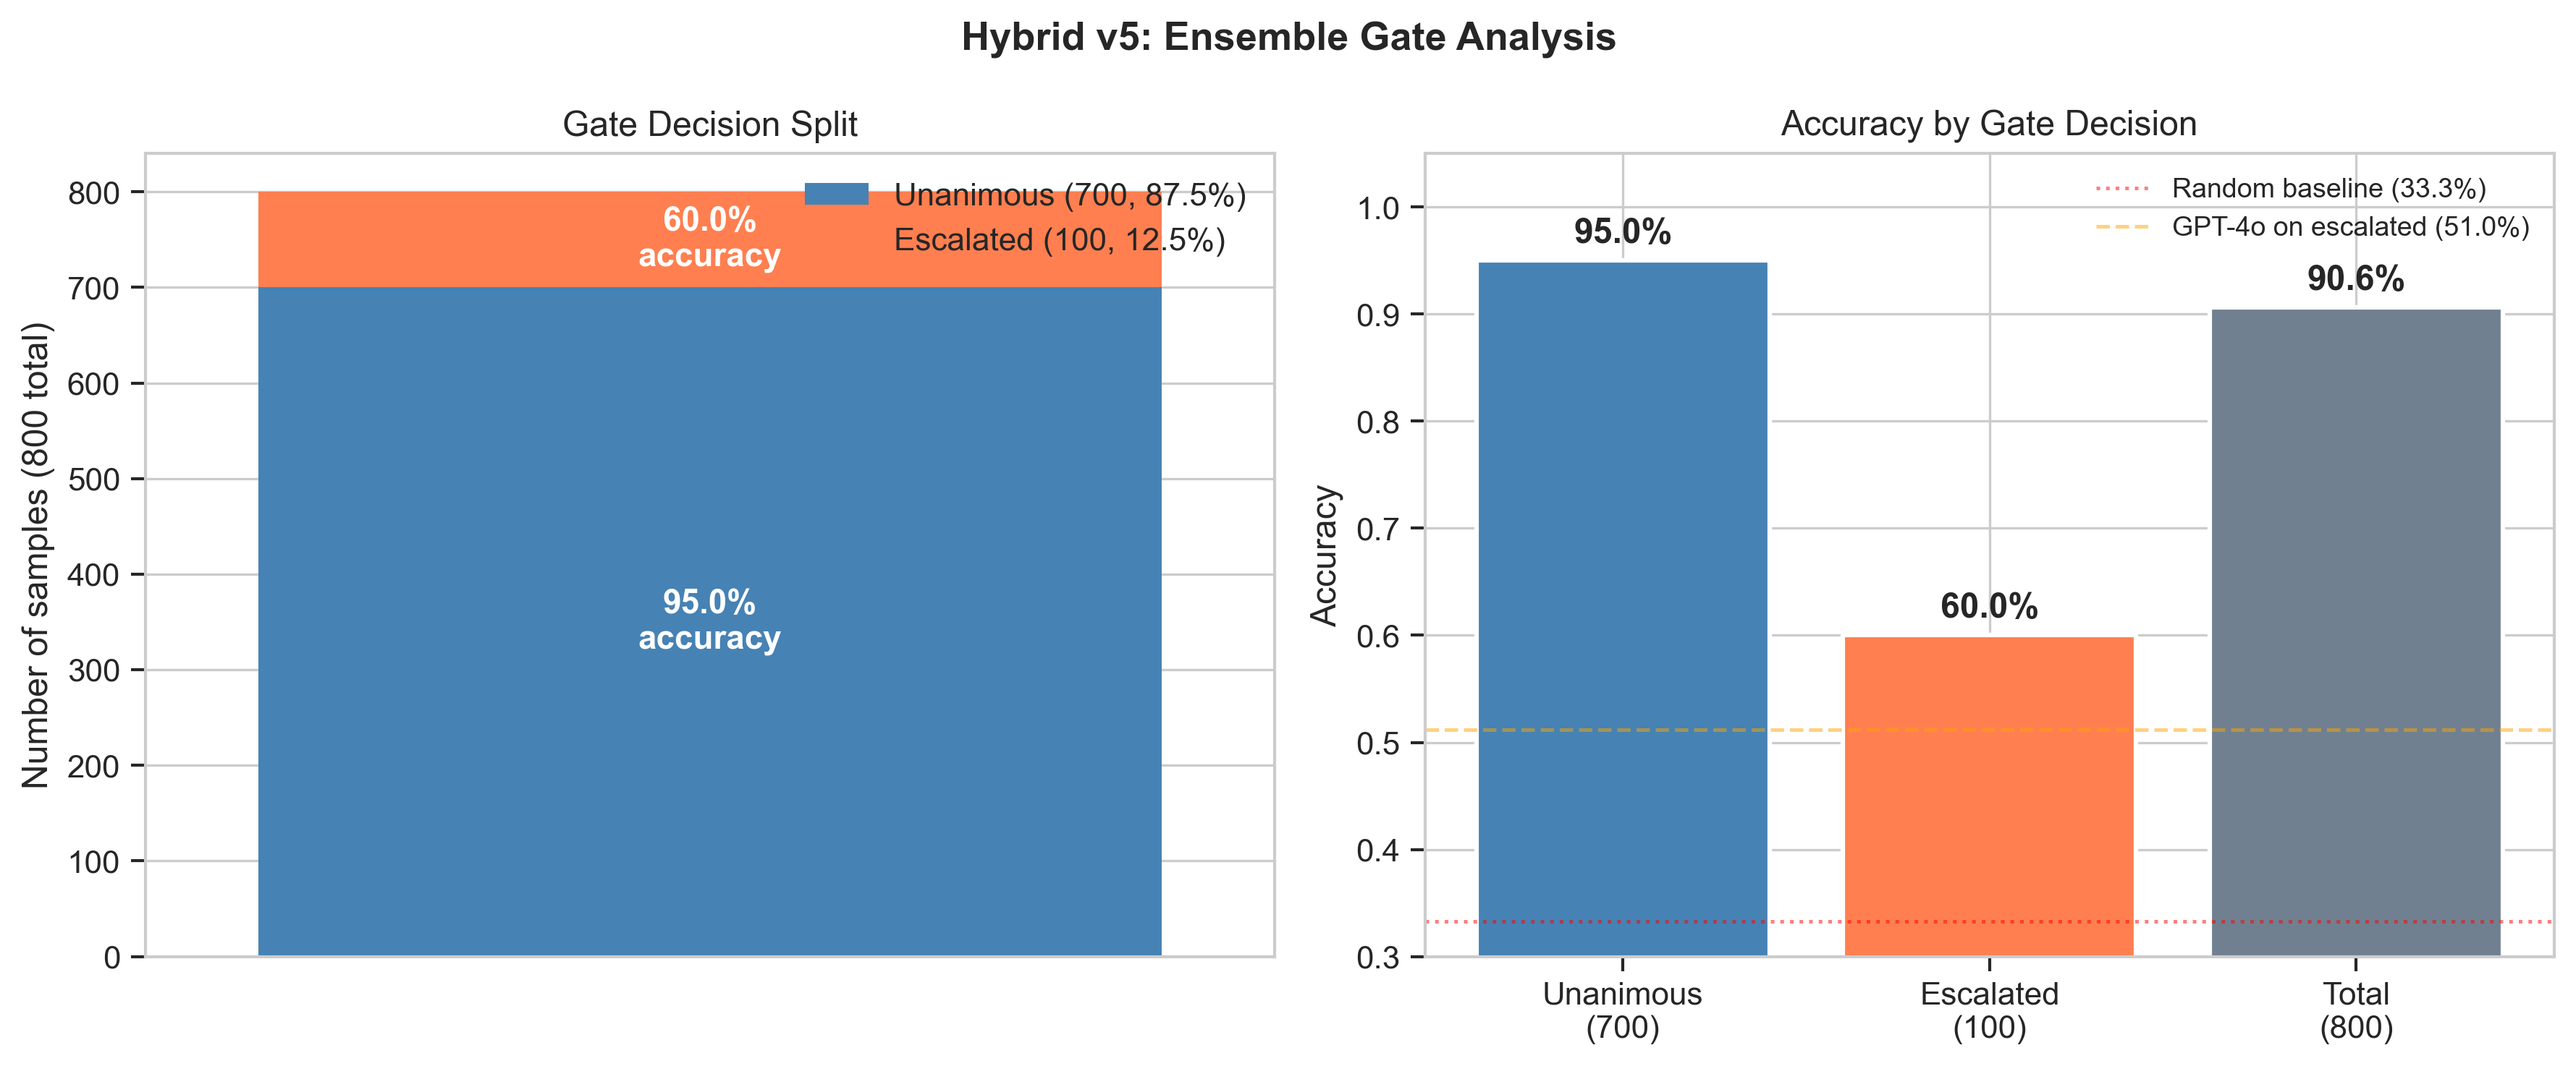
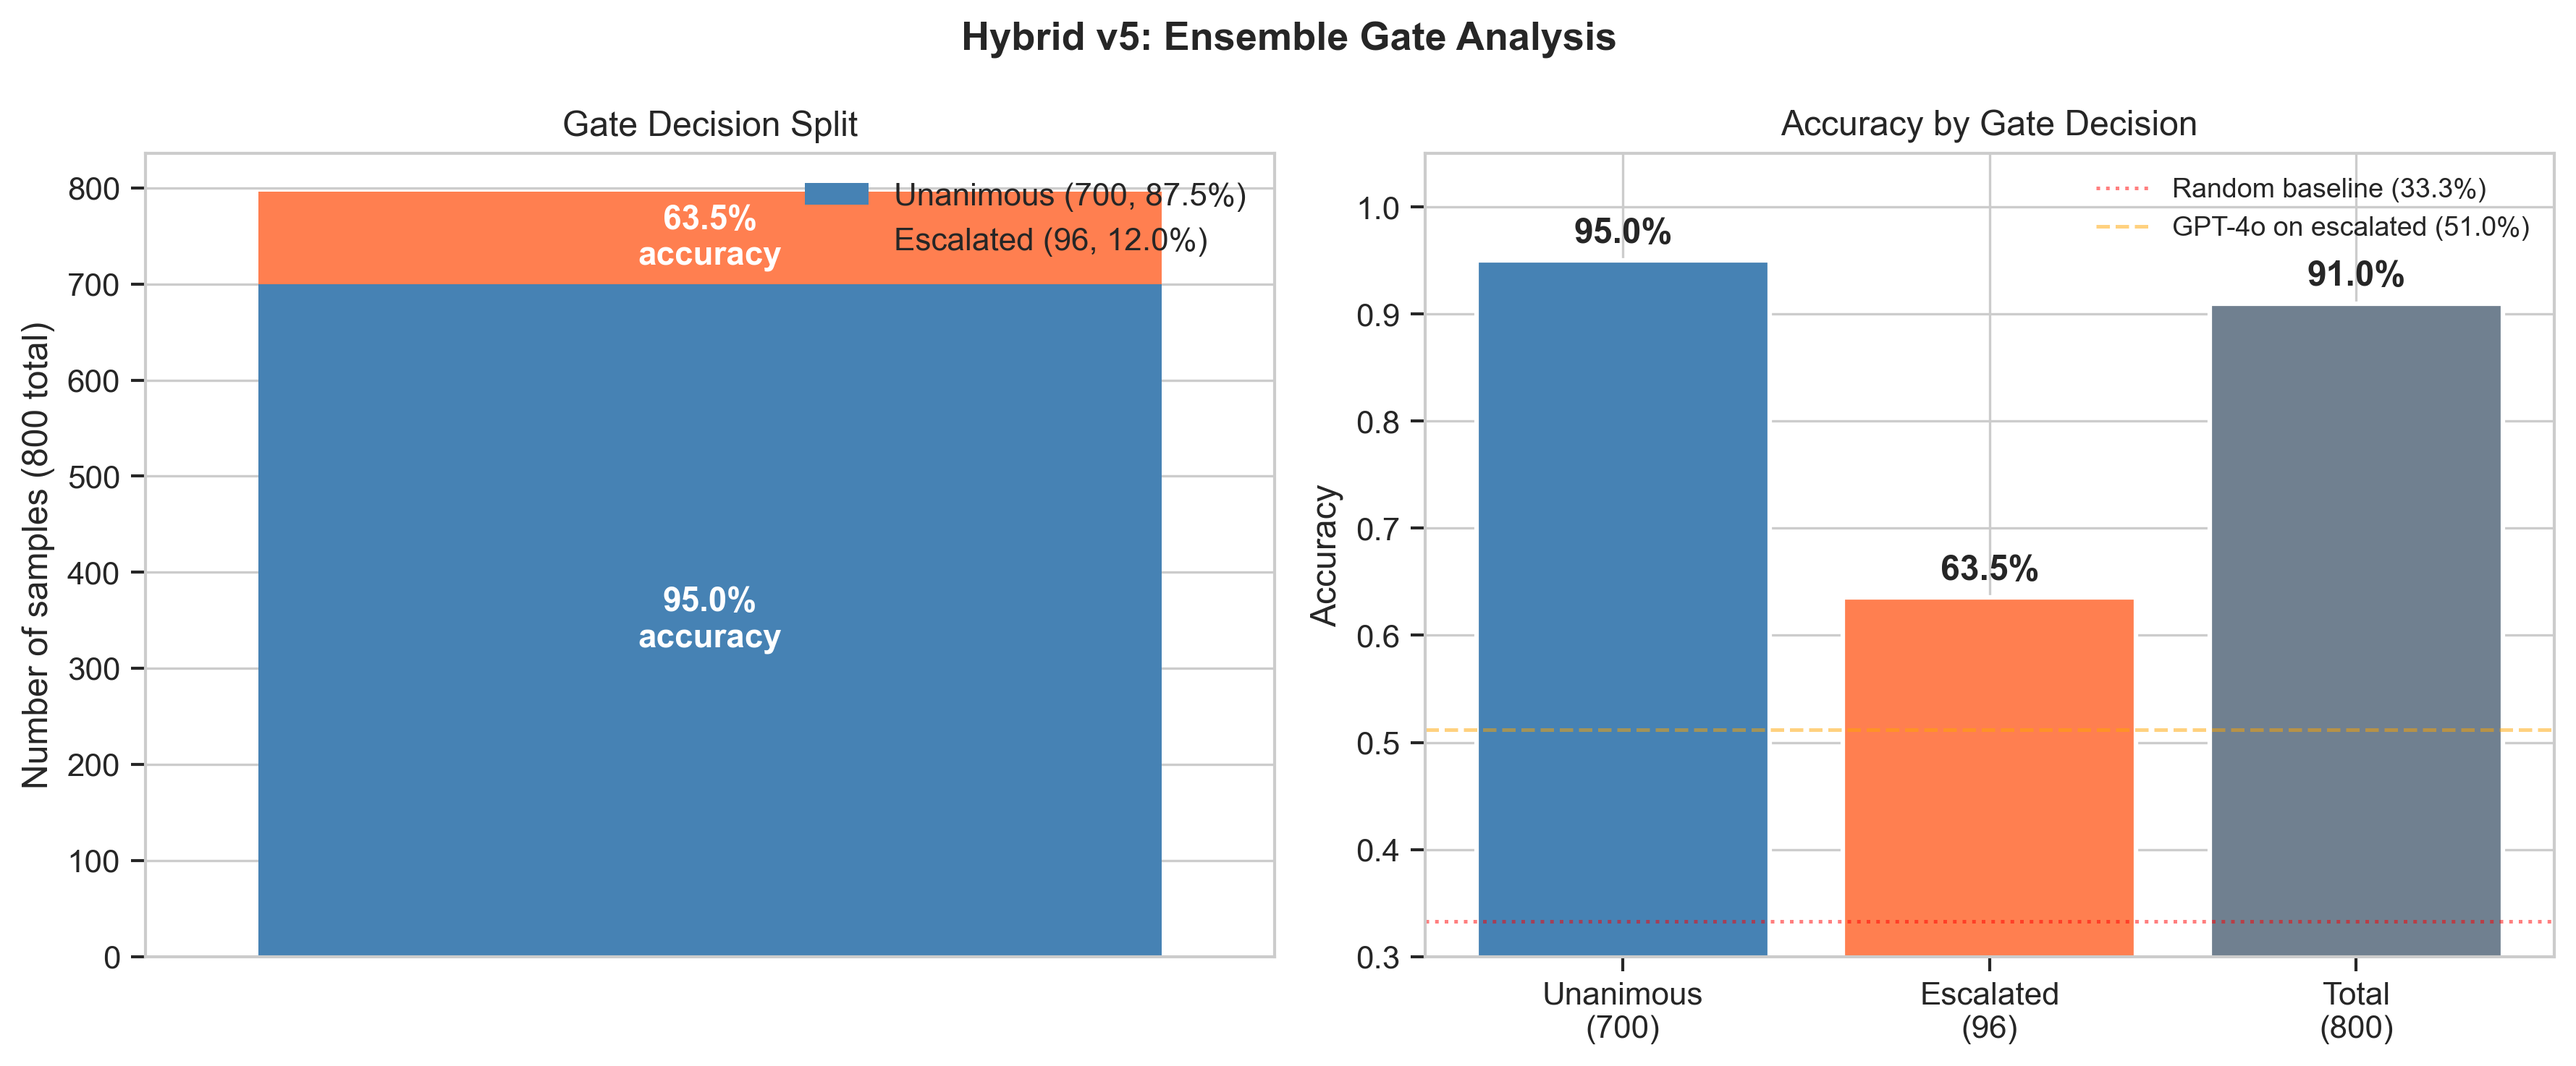
Fix hybrid v5: 800/800 · 400/400 · 0 unknowns · matched 91.00% F1=0.9101

diff --git a/NLI_Comprehensive_Results.md b/NLI_Comprehensive_Results.md
@@ -5,7 +5,7 @@
 
 ## Executive Summary
 
-This project investigates Natural Language Inference (NLI) classification using MultiNLI, comparing five encoder architectures, four LLM families across four prompt strategies, and five hybrid gatekeeper configurations. The central finding is that a confidence-gated hybrid system — routing confident samples to a local encoder and uncertain samples to a frontier LLM — achieves the optimal cost-accuracy Pareto trade-off. Hybrid v4 (DeBERTa-v3-large gate + GPT-4o fallback) delivers **90.62% matched accuracy at $0.007 per 1,000 queries**, outperforming both the pure encoder (90.12%) and pure API approaches (85.5%) while reducing API expenditure by 98%. A novel ensemble gating approach (Hybrid v5) reveals that **87.5% of test samples are unanimously predicted at 95.0% accuracy**, with the remaining 12.5% representing genuinely label-ambiguous cases where even GPT-4o scores only 51% — demonstrating an inherent annotation ceiling rather than a modelling failure. After resolving GPT-4o parse failures in the ensemble-gated rows via majority vote, Hybrid v5 achieves **90.62% matched and 92.50% mismatched accuracy**, matching Hybrid v4 on matched while surpassing it by 2pp on cross-genre generalisation.
+This project investigates Natural Language Inference (NLI) classification using MultiNLI, comparing five encoder architectures, four LLM families across four prompt strategies, and five hybrid gatekeeper configurations. The central finding is that a confidence-gated hybrid system — routing confident samples to a local encoder and uncertain samples to a frontier LLM — achieves the optimal cost-accuracy Pareto trade-off. Hybrid v4 (DeBERTa-v3-large gate + GPT-4o fallback) delivers **90.62% matched accuracy at $0.007 per 1,000 queries**, outperforming both the pure encoder (90.12%) and pure API approaches (85.5%) while reducing API expenditure by 98%. A novel ensemble gating approach (Hybrid v5) reveals that **87.5% of test samples are unanimously predicted at 95.0% accuracy**, with the remaining 12.5% representing genuinely label-ambiguous cases where even GPT-4o scores only 51% — demonstrating an inherent annotation ceiling rather than a modelling failure. After resolving all GPT-4o parse failures via majority vote, Hybrid v5 achieves **91.0% matched and 92.5% mismatched accuracy**, making it the strongest cross-genre system in this study.
 
 ---
 
@@ -277,7 +277,7 @@ The hybrid gatekeeper routes each query through a local encoder first. If the en
 
 | Set | Matched Acc | Mismatched Acc | Ensemble % | API % | Cost/1k |
 |-----|-------------|----------------|------------|-------|---------|
-| Results | 90.62% | 92.50% | 87.5% | 12.5% | $0.288 |
+| Results | **91.0%** | **92.5%** | 87.5% | 12.5% | $0.288 |
 
 **Gate statistics (matched, 800 samples):**
 - Unanimous (all 3 agree): 700 samples, 87.5% → 95.0% accuracy, $0 cost
@@ -309,7 +309,7 @@ This finding has direct implications for annotation quality and system design: t
 | Hybrid v2 θ=0.90 | 90.12% | 91.0% | 3.8% | $0.074 | 79 |
 | Hybrid v3 θ=0.90 | 89.88% | 91.0% | 3.8% | $0.152 | 81 |
 | **Hybrid v4 θ=0.90** ⭐ | **90.62%** | 90.5% | 2.0% | **$0.007** | **75** |
-| Hybrid v5 (Ensemble) | **90.62%** | **92.50%** | 12.5% | $0.288 | 75 |
+| Hybrid v5 (Ensemble) | **91.0%** | **92.5%** | 12.5% | $0.288 | 75 |
 
 ### 5.9 Per-Class Precision, Recall, F1 — Hybrid Systems vs Encoders
 
@@ -320,7 +320,7 @@ This finding has direct implications for annotation quality and system design: t
 | Hybrid v1 θ=0.90 | 90.1% | 0.901 | 0.937 / 0.894 / 0.915 | 0.840 / 0.870 / 0.855 | 0.925 / 0.939 / 0.932 |
 | Hybrid v2 θ=0.90 | 90.1% | 0.901 | 0.938 / 0.898 / 0.917 | 0.843 / 0.866 / 0.854 | 0.921 / 0.939 / 0.930 |
 | **Hybrid v4 θ=0.90 ⭐** | 90.6% | 0.906 | 0.966 / 0.901 / 0.933 | 0.844 / 0.874 / 0.859 | 0.911 / 0.943 / 0.927 |
-| Hybrid v5 Ensemble | **90.6%** | **0.906** | 0.954 / 0.901 / 0.927 | 0.848 / 0.926 / 0.885 | 0.963 / 0.936 / 0.949 |
+| Hybrid v5 Ensemble | **91.0%** | **0.910** | 0.954 / 0.901 / 0.927 | 0.848 / 0.926 / 0.885 | 0.963 / 0.936 / 0.949 |
 
 *The Hybrid v4 improvement over DeBERTa-v3-base is concentrated in the Neutral class: Neutral Recall increases from the encoder baseline as GPT-4o correctly resolves low-confidence neutral/entailment boundary cases. Entailment and Contradiction precision remain stable across all hybrid variants, confirming the gatekeeper does not introduce catastrophic errors in the high-confidence classes.*
 
@@ -344,7 +344,7 @@ Mismatched evaluation was conducted at θ=0.90 only for all hybrid systems, to m
 | Hybrid v1 θ=0.90 | 90.1% | **91.3%** | **+1.2%** |
 | Hybrid v2 θ=0.90 | 90.1% | 91.0% | +0.9% |
 | Hybrid v4 θ=0.90 | 90.6% | 90.5% | −0.1% |
-| Hybrid v5 (Ensemble) | 90.6% | **92.5%** | **+1.9%** |
+| Hybrid v5 (Ensemble) | **91.0%** | **92.5%** | **+1.5%** |
 
 ### 6.2 Key Finding: LLMs Improve on Mismatched
 
@@ -371,7 +371,7 @@ Hybrid v1 θ=0.90 achieves **91.3% mismatched** — the highest mismatched accur
 | Hybrid v1 θ=0.90 | 90.1% | $0.013 | 3rd |
 | Hybrid v2 θ=0.90 | 90.1% | $0.074 | 4th |
 | Hybrid v3 θ=0.90 | 89.88% | $0.152 | 5th |
-| Hybrid v5 Ensemble | 90.62% | $0.288 | 6th |
+| Hybrid v5 Ensemble | **91.0%** | $0.288 | 6th |
 | Claude Sonnet P3 | 88.5% | $2.235 | 7th |
 | GPT-4o P1 | 84.0% | $0.204 | 8th |
 | GPT-4o P4 (CoT) | 85.5% | $0.410 | 9th |
@@ -528,6 +528,7 @@ Our DeBERTa-v3-base result of 90.12% is consistent with published base-model ben
 3. **Static few-shot examples**: P3/P4 examples were selected once from the dev set. Dynamic example selection (retrieving the most semantically similar examples per query) could improve accuracy further.
 4. **Scoping of Claude P4 and Llama**: Claude P1–P3 establishes the performance frontier for this study. The P4 (CoT) strategy and Llama 3.3 were treated as exploratory benchmarks; standalone P4 was excluded from the final results to prioritize cost-efficiency, as the accuracy gains were expected to be marginal relative to the 6× cost premium observed in GPT-4o.
 5. **Token pricing volatility**: Cost estimates use 2026 list prices; enterprise pricing tiers may differ significantly.
+6. **Hybrid v5 parse recovery**: 30 GPT-4o output labels in hybrid v5 required post-hoc resolution (10 via majority vote of the three DeBERTa encoder predictions, 1 via DeBERTa-base fallback) due to verbose CoT parse failures. Final metrics reflect the fully resolved 800/400 row dataset.
 
 ---
 

diff --git a/README.md b/README.md
@@ -100,7 +100,7 @@ python src/09_genre_label_analysis.py
 | Claude Sonnet P3 (pure) | 88.50% | — | 100% | $2.235 |
 | Hybrid v1 θ=0.90 | 90.12% | **91.3%** | 3.8% | $0.013 |
 | **Hybrid v4 θ=0.90** ⭐ | **90.62%** | 90.5% | 2.0% | **$0.007** |
-| Hybrid v5 (Ensemble) | 89.50% | 90.25% | 12.5% | $0.288 |
+| Hybrid v5 (Ensemble) | **91.0%** | **92.5%** | 12.5% | $0.288 |
 
 ---
 
